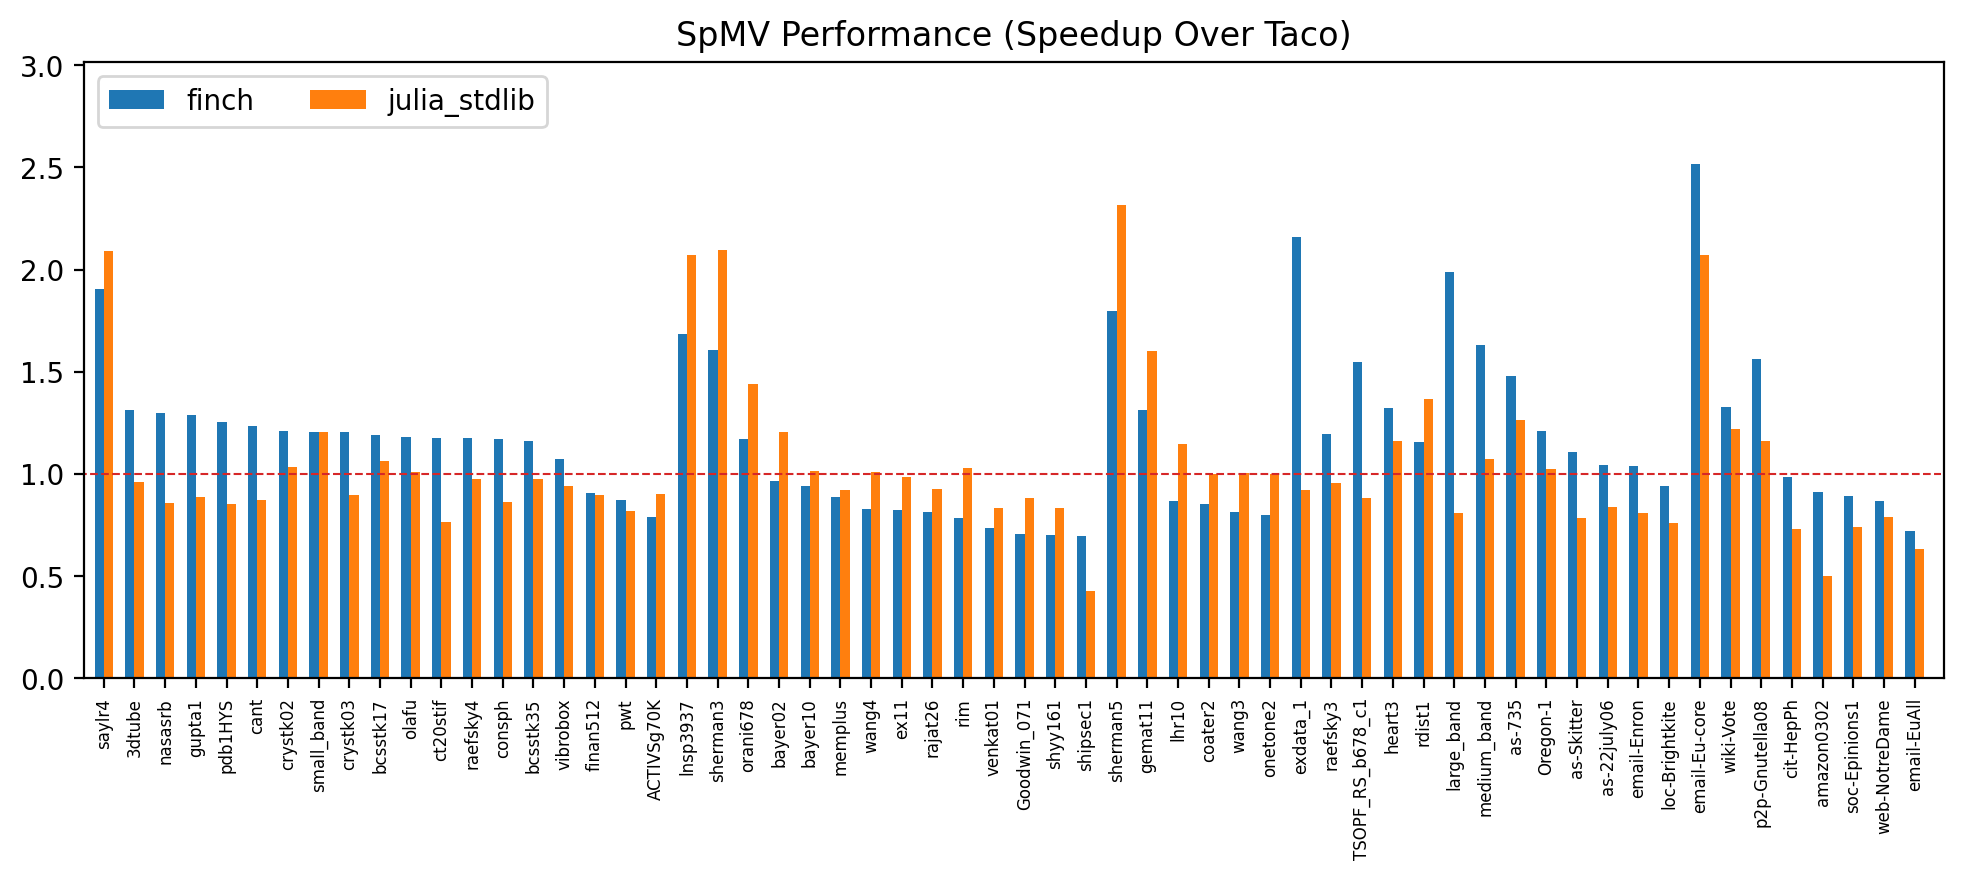
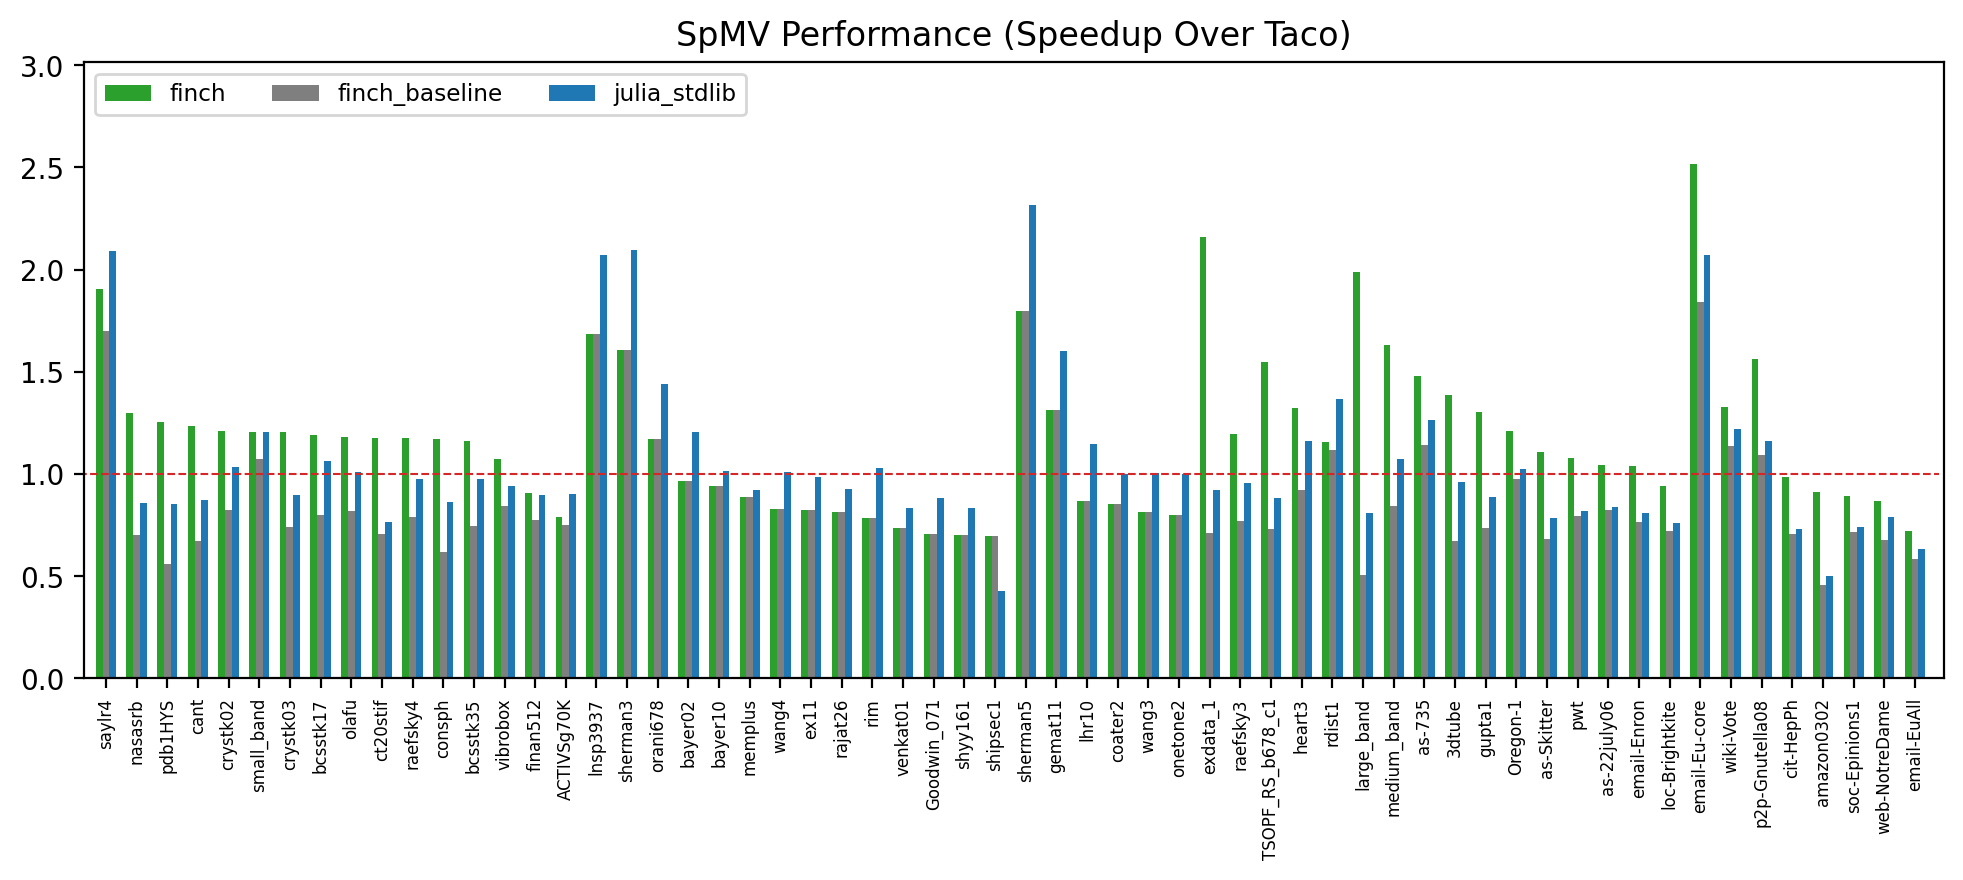
fixed

Changed region(s): [[0.0311, 0.1841, 0.9944, 0.9511], [0.0311, 0.0614, 0.3729, 0.1534], [0.8701, 0.7977, 0.9012, 0.8284]]

diff --git a/spmv/chart.py b/spmv/chart.py
@@ -57,10 +57,13 @@ def all_formats_chart(ordered_by_format=False):
         method = result["method"]
         time = result["time"]
 
-        if method == "finch_unsym":
+        if (method == "finch_unsym") or (method == "finch_unsym_row_maj"):
             # finch_baseline_time = data[mtx]["finch_baseline"]
             # data[mtx]["finch_baseline"] = time if finch_baseline_time == 0 else min(time, finch_baseline_time)
-            data[mtx]["finch_baseline"] = time
+            #infinity in python is float('inf')
+            #data[mtx]["finch_baseline"] = min(data[mtx].get("finch_baseline", float('inf')), data[mtx][method])
+            #the above line doesn't work, but this one does:
+            data[mtx]["finch_baseline"] = min(data[mtx].get("finch_baseline", float('inf')), time)
         if "finch" in method and finch_formats[mtx] != method:
             continue
         method = "finch" if "finch" in method else method
@@ -184,7 +187,7 @@ def all_formats_for_matrix_chart(matrix):
 
 def make_grouped_bar_chart(labels, x_axis, data, colors = None, labeled_groups = [], title = "", y_label = "", bar_labels_dict={}, legend_labels=None, reference_label = ""):
     x = np.arange(len(data[labels[0]]))
-    width = 0.3 
+    width = 0.22 
     multiplier = 0
     max_height = 0
 
@@ -206,9 +209,9 @@ def make_grouped_bar_chart(labels, x_axis, data, colors = None, labeled_groups =
     ax.set_xticks(x + width * (len(labels) - 1)/2, x_axis)
     ax.tick_params(axis='x', which='major', labelsize=6, labelrotation=90)
     if legend_labels:
-        ax.legend(legend_labels, loc='upper left', ncols=2, fontsize='small')
+        ax.legend(legend_labels, loc='upper left', ncols=3, fontsize='small')
     else:
-        ax.legend(loc='upper left', ncols=2, fontsize='small')
+        ax.legend(loc='upper left', ncols=3, fontsize='small')
     ax.set_ylim(0, max_height + 0.5)
 
         # Adjusting x-axis limits to make bars go to the edges
